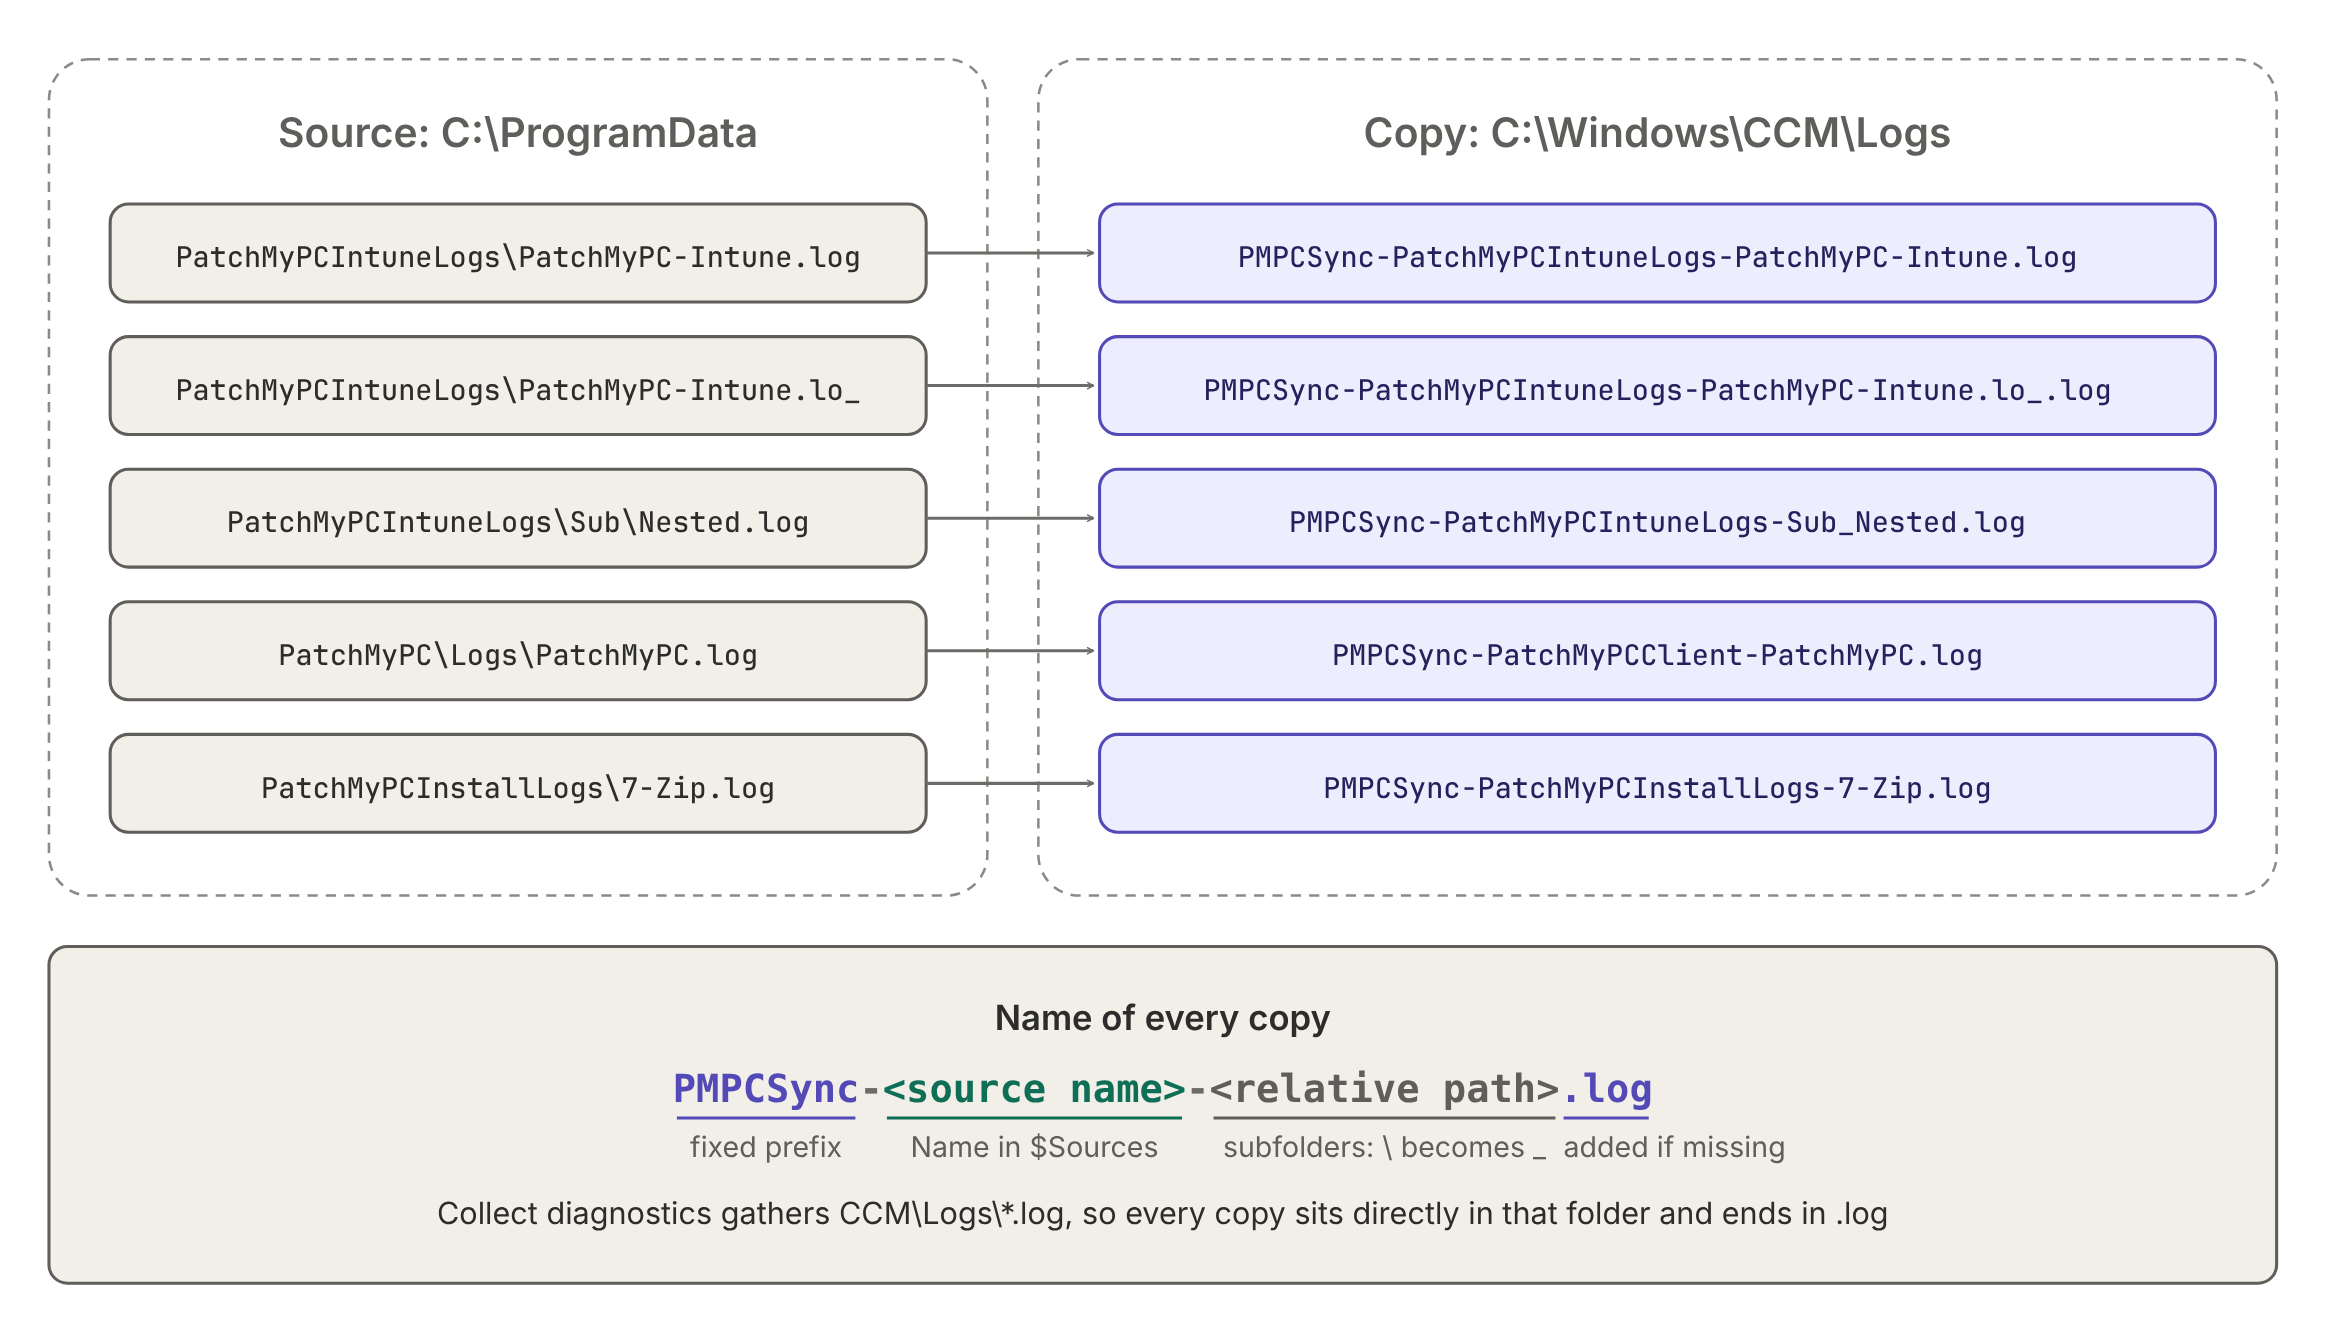
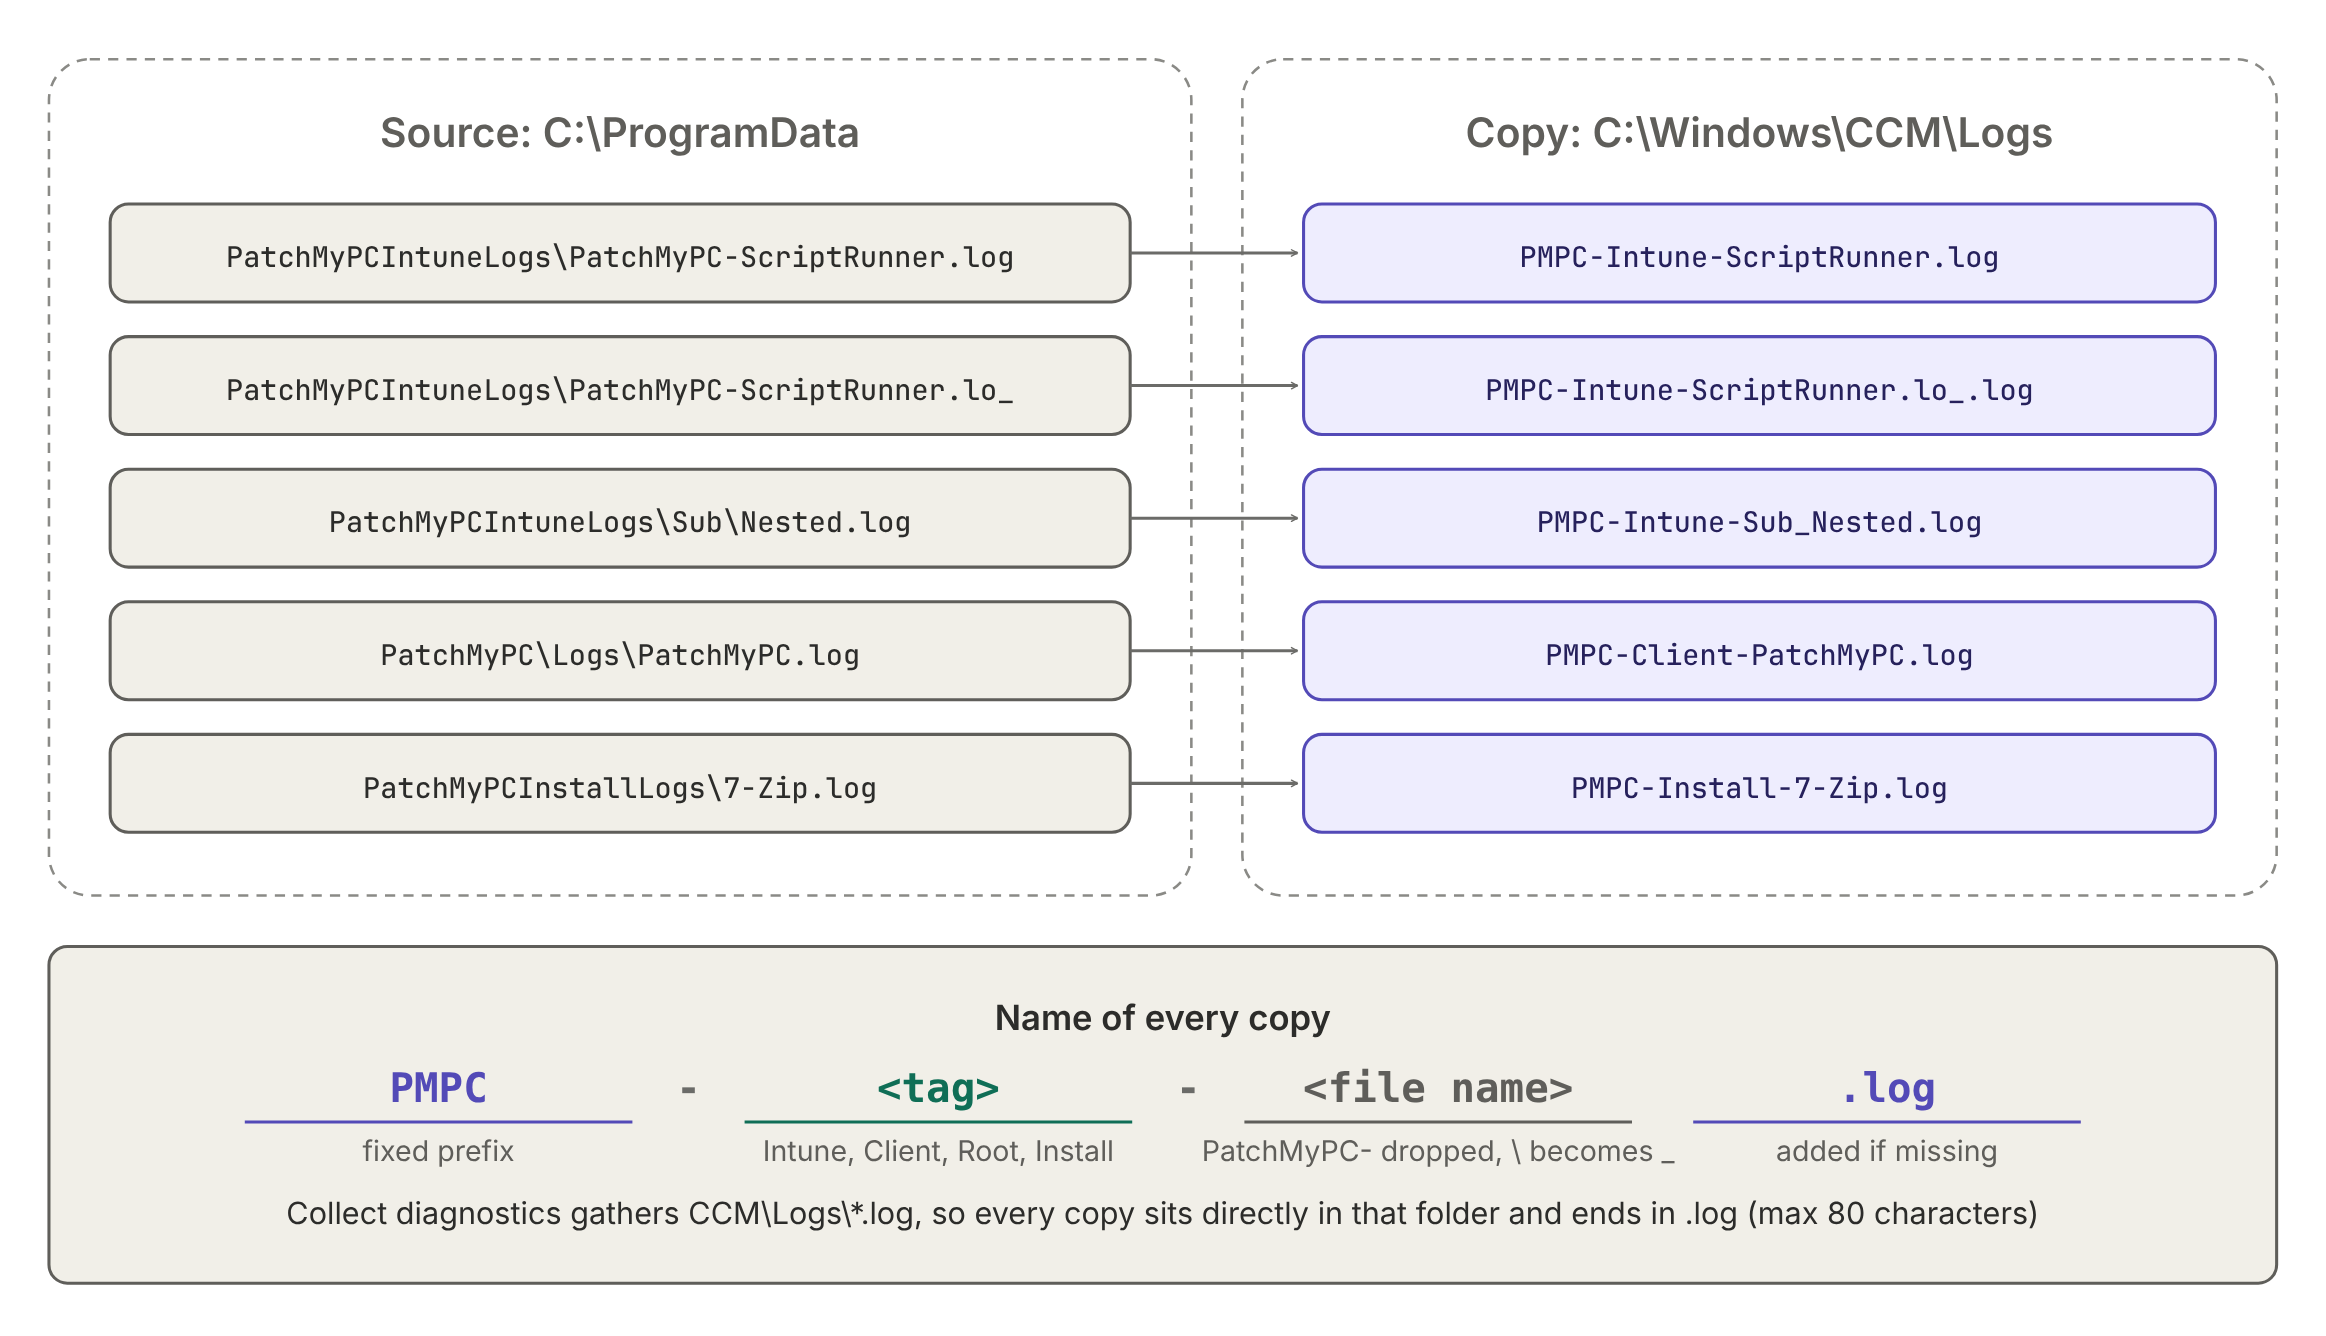
Shorten copy names to PMPC-<tag>-<file>.log with an 80-character cap
- Short source tags: Intune, Client, Root, Install
- Drop a leading 'PatchMyPC-' from the file name
- Cap names at 80 characters; longer names end in ~<hash>.log
- Resolve name clashes so every copy stays unique
- Remove PMPCSync-*.log copies from earlier versions
- Update README and pictures

diff --git a/README.md b/README.md
@@ -25,7 +25,7 @@ Earlier versions of these scripts mirrored the logs to `IME\Logs\PatchMyPC\<sour
 
 ## How it works
 
-![Flow of the Patch My PC log sync: a scheduled Intune Remediation copies the logs flat into C:\Windows\CCM\Logs as PMPCSync-*.log, and an on-demand Collect diagnostics action includes them in the diagnostics zip](pmpc-log-sync-flow.png)
+![Flow of the Patch My PC log sync: a scheduled Intune Remediation copies the logs flat into C:\Windows\CCM\Logs as PMPC-*.log, and an on-demand Collect diagnostics action includes them in the diagnostics zip](pmpc-log-sync-flow.png)
 
 ## What it does
 
@@ -38,33 +38,36 @@ Earlier versions of these scripts mirrored the logs to `IME\Logs\PatchMyPC\<sour
 
 **Remediation** (`Remediate-PatchMyPCLogSync.ps1`)
 
-- Copies new or changed logs flat to `C:\Windows\CCM\Logs`, named `PMPCSync-<source>-<relative path>.log` (see [File naming](#file-naming)). The folder is created when it does not exist.
+- Copies new or changed logs flat to `C:\Windows\CCM\Logs`, with short names such as `PMPC-Intune-ScriptRunner.log` (see [File naming](#file-naming)). The folder is created when it does not exist.
 - Opens source files with shared read access, so logs that are currently being written to can still be copied.
 - Only mirrors logs written in the last `$MaxAgeDays` days.
 - Truncates large logs to the last `$MaxFileSizeMB` MB (the newest entries are kept). See [Truncation](#truncation).
 - Selects files newest-first so the mirror stays within `$MaxTotalSizeMB`, which keeps the diagnostics zip lean.
-- Removes mirrored copies older than `$RetentionDays` days and enforces the total size cap. Only files named `PMPCSync-*.log` are ever removed; the ConfigMgr client logs and other files in `C:\Windows\CCM\Logs` are never touched. When the cap is exceeded, copies that are no longer selected (for example rotated or deleted source logs) are removed first, oldest first. Selected copies are only removed as a last resort, so the remediation does not remove files that the detection then reports as missing.
+- Removes mirrored copies older than `$RetentionDays` days and enforces the total size cap. Only files named `PMPC-*.log` are ever removed; the ConfigMgr client logs and other files in `C:\Windows\CCM\Logs` are never touched. When the cap is exceeded, copies that are no longer selected (for example rotated or deleted source logs) are removed first, oldest first. Selected copies are only removed as a last resort, so the remediation does not remove files that the detection then reports as missing.
 - Sets the last write time of each copy to that of the source, so a detection script can reliably compare the two.
-- Removes the old mirror folder `C:\ProgramData\Microsoft\IntuneManagementExtension\Logs\PatchMyPC` used by earlier versions.
+- Removes copies made by earlier versions: the old mirror folder `C:\ProgramData\Microsoft\IntuneManagementExtension\Logs\PatchMyPC` and `PMPCSync-*.log` files in `C:\Windows\CCM\Logs`.
 
 ## File naming
 
-![How source logs are named in C:\Windows\CCM\Logs: PMPCSync, the source name and the relative path, ending in .log](pmpc-log-sync-naming.png)
+![How source logs are named in C:\Windows\CCM\Logs: PMPC, the source tag and the file name, ending in .log](pmpc-log-sync-naming.png)
 
-Every copy is stored as `<FilePrefix>-<source name>-<relative path>.log`:
+Every copy is stored as `<FilePrefix>-<Name>-<relative path>.log`. Names are kept as short as possible while still showing where the log came from:
 
-- `<FilePrefix>` is `PMPCSync` by default. It marks the file as a copy made by these scripts and is how the remediation recognises its own files during cleanup.
-- `<source name>` is the `Name` of the entry in `$Sources` (see [Source locations](#source-locations)), so you can tell which folder the log came from.
-- `<relative path>` is the path below that source folder, with `\` replaced by `_`.
+- `<FilePrefix>` is `PMPC` by default. It marks the file as a copy made by these scripts, and the remediation only ever removes files with this prefix.
+- `<Name>` is the short tag of the source in `$Sources` (`Intune`, `Client`, `Root` or `Install`, see [Source locations](#source-locations)), so you can tell which folder the log came from.
+- `<relative path>` is the path below that source folder, with `\` replaced by `_`. A leading `PatchMyPC-` is dropped, because the prefix already says so.
 - Files that do not end in `.log` (such as rotated `.lo_` logs) get `.log` appended, because Collect diagnostics only gathers `*.log` from this folder.
+- Names longer than `$MaxNameLength` (80) characters are cut off and end in `~` plus a short code made from the source path, so they stay unique. This keeps the full path short enough when the diagnostics zip is extracted to a deep folder.
+- If two files would end up with the same name, the second keeps its full name or gets the short code.
 
 | Source file | Copy in `C:\Windows\CCM\Logs` |
 |-------------|-----------------------------------|
-| `C:\ProgramData\PatchMyPCIntuneLogs\PatchMyPC-Intune.log` | `PMPCSync-PatchMyPCIntuneLogs-PatchMyPC-Intune.log` |
-| `C:\ProgramData\PatchMyPCIntuneLogs\PatchMyPC-Intune.lo_` | `PMPCSync-PatchMyPCIntuneLogs-PatchMyPC-Intune.lo_.log` |
-| `C:\ProgramData\PatchMyPCIntuneLogs\Sub\Nested.log` | `PMPCSync-PatchMyPCIntuneLogs-Sub_Nested.log` |
-| `C:\ProgramData\PatchMyPC\Logs\PatchMyPC.log` | `PMPCSync-PatchMyPCClient-PatchMyPC.log` |
-| `C:\ProgramData\PatchMyPCInstallLogs\7-Zip.log` | `PMPCSync-PatchMyPCInstallLogs-7-Zip.log` |
+| `C:\ProgramData\PatchMyPCIntuneLogs\PatchMyPC-ScriptRunner.log` | `PMPC-Intune-ScriptRunner.log` |
+| `C:\ProgramData\PatchMyPCIntuneLogs\PatchMyPC-ScriptRunner.lo_` | `PMPC-Intune-ScriptRunner.lo_.log` |
+| `C:\ProgramData\PatchMyPCIntuneLogs\Sub\Nested.log` | `PMPC-Intune-Sub_Nested.log` |
+| `C:\ProgramData\PatchMyPC\Logs\PatchMyPC.log` | `PMPC-Client-PatchMyPC.log` |
+| `C:\ProgramData\PatchMyPCInstallLogs\7-Zip.log` | `PMPC-Install-7-Zip.log` |
+| `C:\ProgramData\PatchMyPCInstallLogs\Microsoft Visual C++ 2015-2022 Redistributable (x64) 14.40.33816_x64_MSI_Install.log` | `PMPC-Install-Microsoft Visual C++ 2015-2022 Redistributable (x64) 14.~0445a7.log` |
 
 The truncation marker (below) also names the full source path.
 
@@ -85,28 +88,32 @@ The source log is never changed; only the mirrored copy is truncated. A small lo
 
 | Name | Path | Files | Recurse |
 |------|------|-------|---------|
-| `PatchMyPCIntuneLogs` | `%ProgramData%\PatchMyPCIntuneLogs` | `*.log`, `*.lo_` | Yes |
-| `PatchMyPCClient` | `%ProgramData%\PatchMyPC\Logs` | `*.log`, `*.lo_` | Yes |
-| `PatchMyPCRoot` | `%ProgramData%\PatchMyPC` | `*.log` | No |
-| `PatchMyPCInstallLogs` | `%ProgramData%\PatchMyPCInstallLogs` | `*.log` | Yes |
+| `Intune` | `%ProgramData%\PatchMyPCIntuneLogs` | `*.log`, `*.lo_` | Yes |
+| `Client` | `%ProgramData%\PatchMyPC\Logs` | `*.log`, `*.lo_` | Yes |
+| `Root` | `%ProgramData%\PatchMyPC` | `*.log` | No |
+| `Install` | `%ProgramData%\PatchMyPCInstallLogs` | `*.log` | Yes |
 
-`PatchMyPCInstallLogs` holds the installation logs (for example MSI logs) written by Patch My PC when **Manage Installation Logging** is enabled. If you changed that folder, update the `PatchMyPCInstallLogs` path in the `$Sources` list of both scripts, or add your folder as an extra entry (an example is included, commented out, in the scripts).
+The `Name` is the tag in the file name of each copy, so keep it short and unique when you add a source.
+
+`Install` holds the installation logs (for example MSI logs) written by Patch My PC when **Manage Installation Logging** is enabled. If you changed that folder, update the `Install` path in the `$Sources` list of both scripts, or add your folder as an extra entry (an example is included, commented out, in the scripts).
 
 The `PatchMyPC*.log` files that the ConfigMgr client writes to `C:\Windows\CCM\Logs` are not mirrored: they are already in the collected folder.
 
 ## Configuration
 
-Settings are in the `CONFIG` block at the top of [Remediate-PatchMyPCLogSync.ps1](Remediate-PatchMyPCLogSync.ps1) and [Detect-PatchMyPCLogSync.ps1](Detect-PatchMyPCLogSync.ps1). **Keep the `CONFIG` block identical in both scripts**, otherwise detection and remediation disagree about what is in sync. `$RetentionDays` and `$LegacyDestRoot` exist only in the remediation script.
+Settings are in the `CONFIG` block at the top of [Remediate-PatchMyPCLogSync.ps1](Remediate-PatchMyPCLogSync.ps1) and [Detect-PatchMyPCLogSync.ps1](Detect-PatchMyPCLogSync.ps1). **Keep the `CONFIG` block identical in both scripts**, otherwise detection and remediation disagree about what is in sync. `$RetentionDays`, `$LegacyPrefix` and `$LegacyDestRoot` exist only in the remediation script.
 
 | Variable | Default | Description |
 |----------|---------|-------------|
 | `$DestRoot` | `%WinDir%\CCM\Logs` | Destination; the copies are stored flat, because Collect diagnostics does not gather subfolders |
-| `$FilePrefix` | `PMPCSync` | Prefix of every copy; cleanup only touches files with this prefix |
+| `$FilePrefix` | `PMPC` | Prefix of every copy; cleanup only touches files with this prefix |
+| `$MaxNameLength` | `80` | Longer file names are cut off and get a short code, so they stay unique |
 | `$MaxAgeDays` | `14` | Only mirror source logs written in the last N days |
 | `$MaxFileSizeMB` | `10` | Per-file cap; larger logs keep only the last N MB |
 | `$MaxTotalSizeMB` | `75` | Size cap for all mirrored copies together |
 | `$Sources` | see above | Folders, include patterns and recursion to mirror |
 | `$RetentionDays` | `30` | Remove mirrored copies older than N days (remediation only) |
+| `$LegacyPrefix` | `PMPCSync` | File prefix of earlier versions; those copies are removed by the remediation (remediation only) |
 | `$LegacyDestRoot` | `%ProgramData%\Microsoft\IntuneManagementExtension\Logs\PatchMyPC` | Old mirror folder from earlier versions, removed by the remediation (remediation only) |
 
 ## Deployment
@@ -145,7 +152,7 @@ Copied: 12 | Failed: 0 | Removed: 3 | Mirror: C:\Windows\CCM\Logs
 
 ## Collecting the logs
 
-In the Intune admin center, select the device and run **Collect diagnostics**. The Patch My PC logs are included in the diagnostics zip with the other CCM logs, as the `PMPCSync-*.log` files.
+In the Intune admin center, select the device and run **Collect diagnostics**. The Patch My PC logs are included in the diagnostics zip with the other CCM logs, as the `PMPC-*.log` files.
 
 ## Pictures
 
